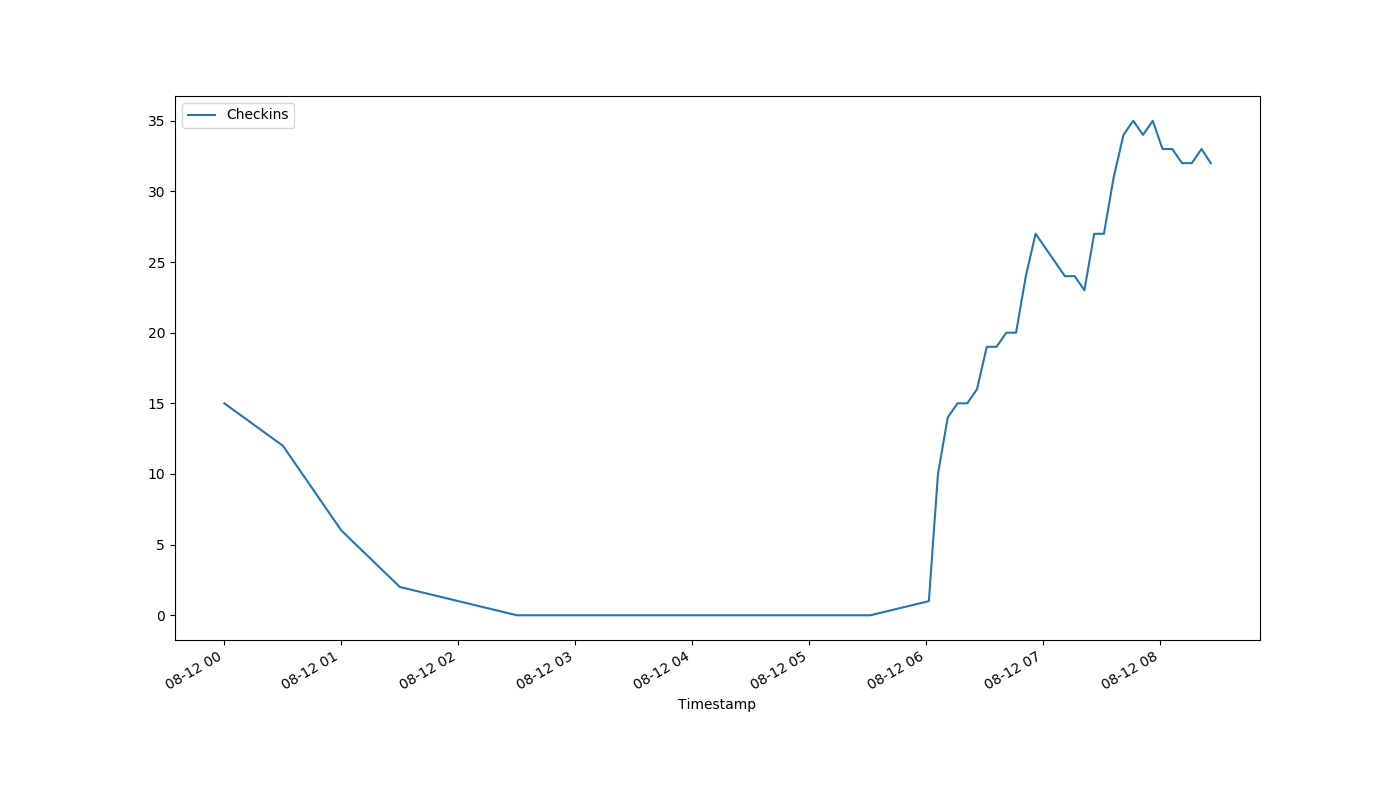
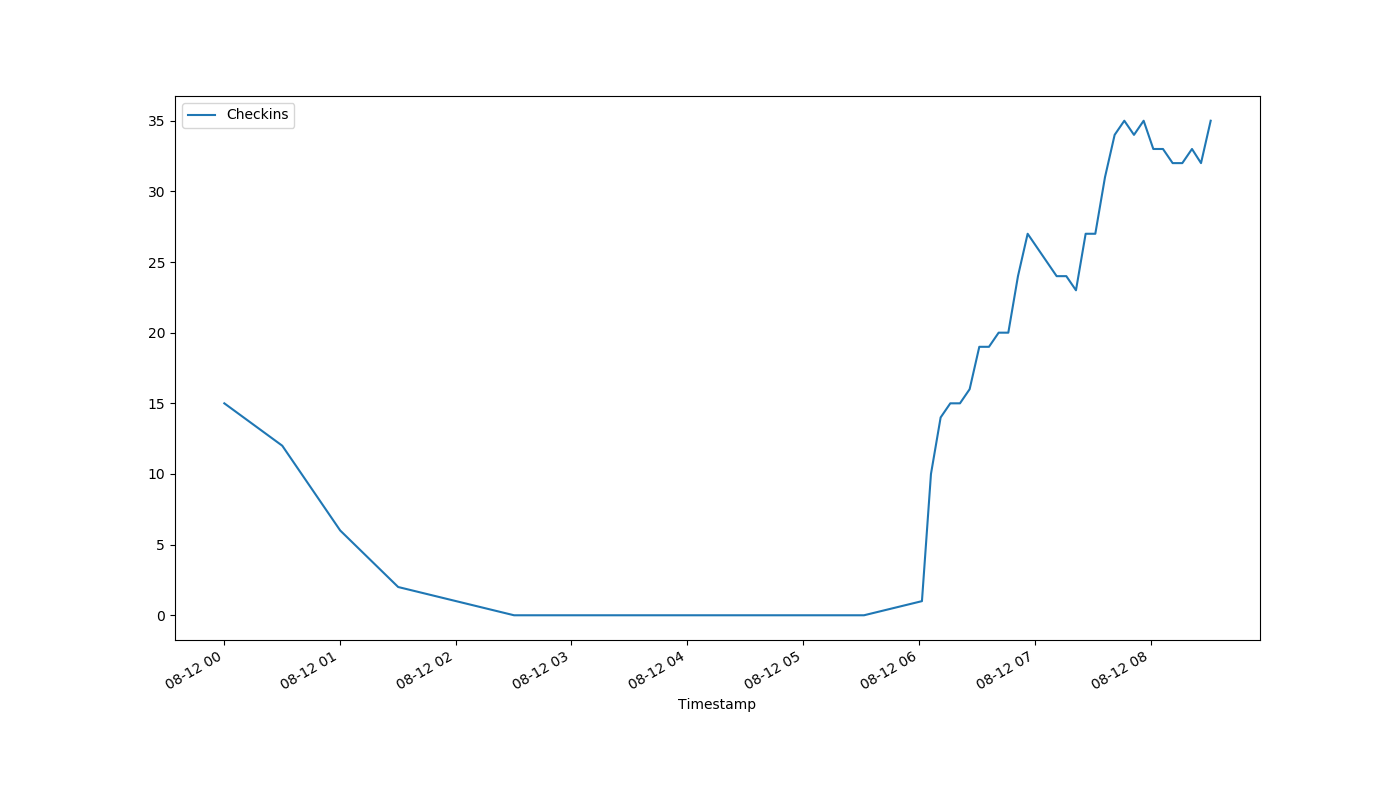
auto-Aug-12-08:33:01

diff --git a/index.html b/index.html
@@ -1,1 +1,1 @@
-<!DOCTYPE html><html><head><meta http-equiv="refresh" content="30"><link rel='stylesheet' href='holmcurrent.css'></head><body><p id='count'>32</p><div id='graph-wrap'><img id='graph' src='holmgraph-Aug-12.png'></div><p id='updated'>Last updated 08:26:15 / 08:26:00</p></body></html>
+<!DOCTYPE html><html><head><meta http-equiv="refresh" content="30"><link rel='stylesheet' href='holmcurrent.css'></head><body><p id='count'>35</p><div id='graph-wrap'><img id='graph' src='holmgraph-Aug-12.png'></div><p id='updated'>Last updated 08:31:16 / 08:31:00</p></body></html>
